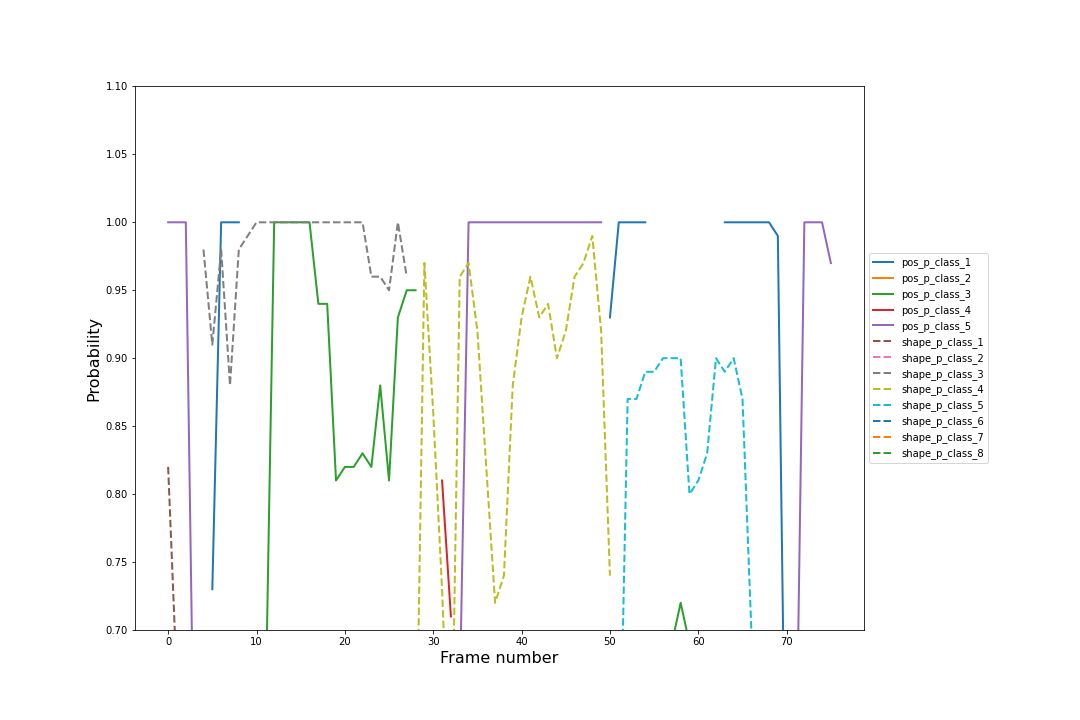
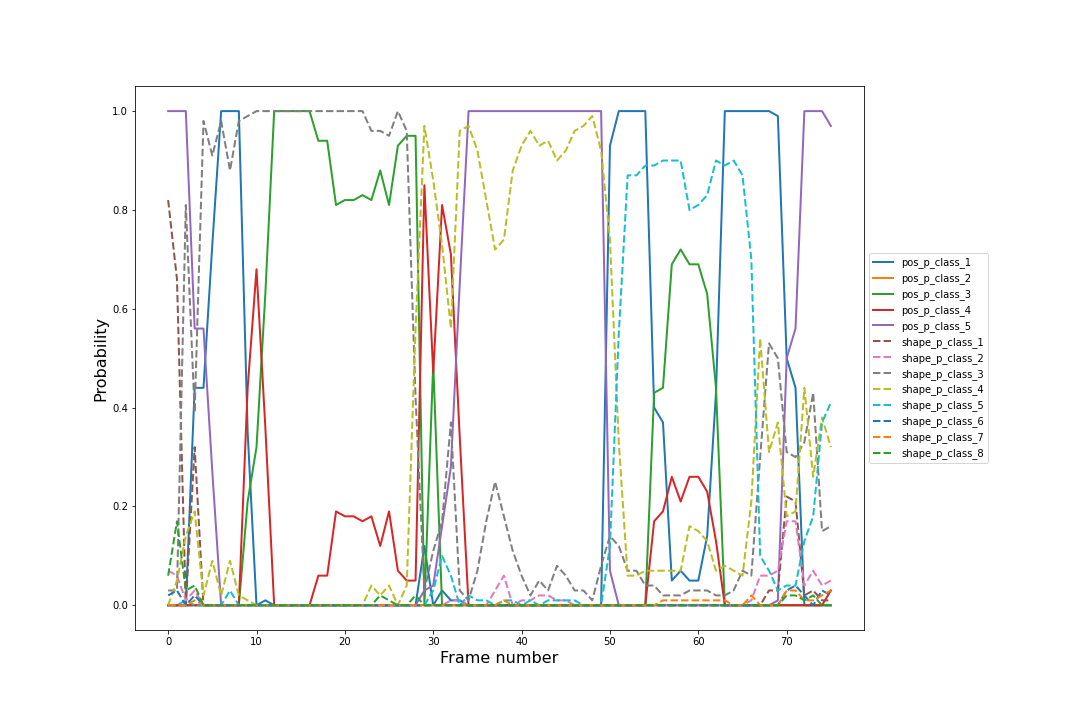
README added

diff --git a/code/viz.py b/code/viz.py
@@ -118,12 +118,12 @@ def plot_predictions(df_predictions_pos, df_predictions_shape,
     df_predictions_shape = df_predictions_shape.filter(regex=("p_class*"))
     
     probs_pos = df_predictions_pos.to_numpy()
-    probs_pos[probs_pos<thresh] = np.nan
+    # probs_pos[probs_pos<thresh] = np.nan
     ax.plot(probs_pos, ls='-', lw=2,
             label=['pos_' + s for s in df_predictions_pos.columns])
     
     probs_shape = df_predictions_shape.to_numpy()
-    probs_shape[probs_shape<thresh] = np.nan
+    # probs_shape[probs_shape<thresh] = np.nan
     ax.plot(probs_shape, ls='--', lw=2,
             label=['shape_' + s for s in df_predictions_shape.columns])
     
@@ -132,7 +132,7 @@ def plot_predictions(df_predictions_pos, df_predictions_shape,
     
     ax.legend(loc='center left', bbox_to_anchor=(1, 0.5))
     
-    ax.set_ylim((0.7, 1.1))
+    # ax.set_ylim((0.7, 1.1))
     
     plt.subplots_adjust(right=0.8)
     
